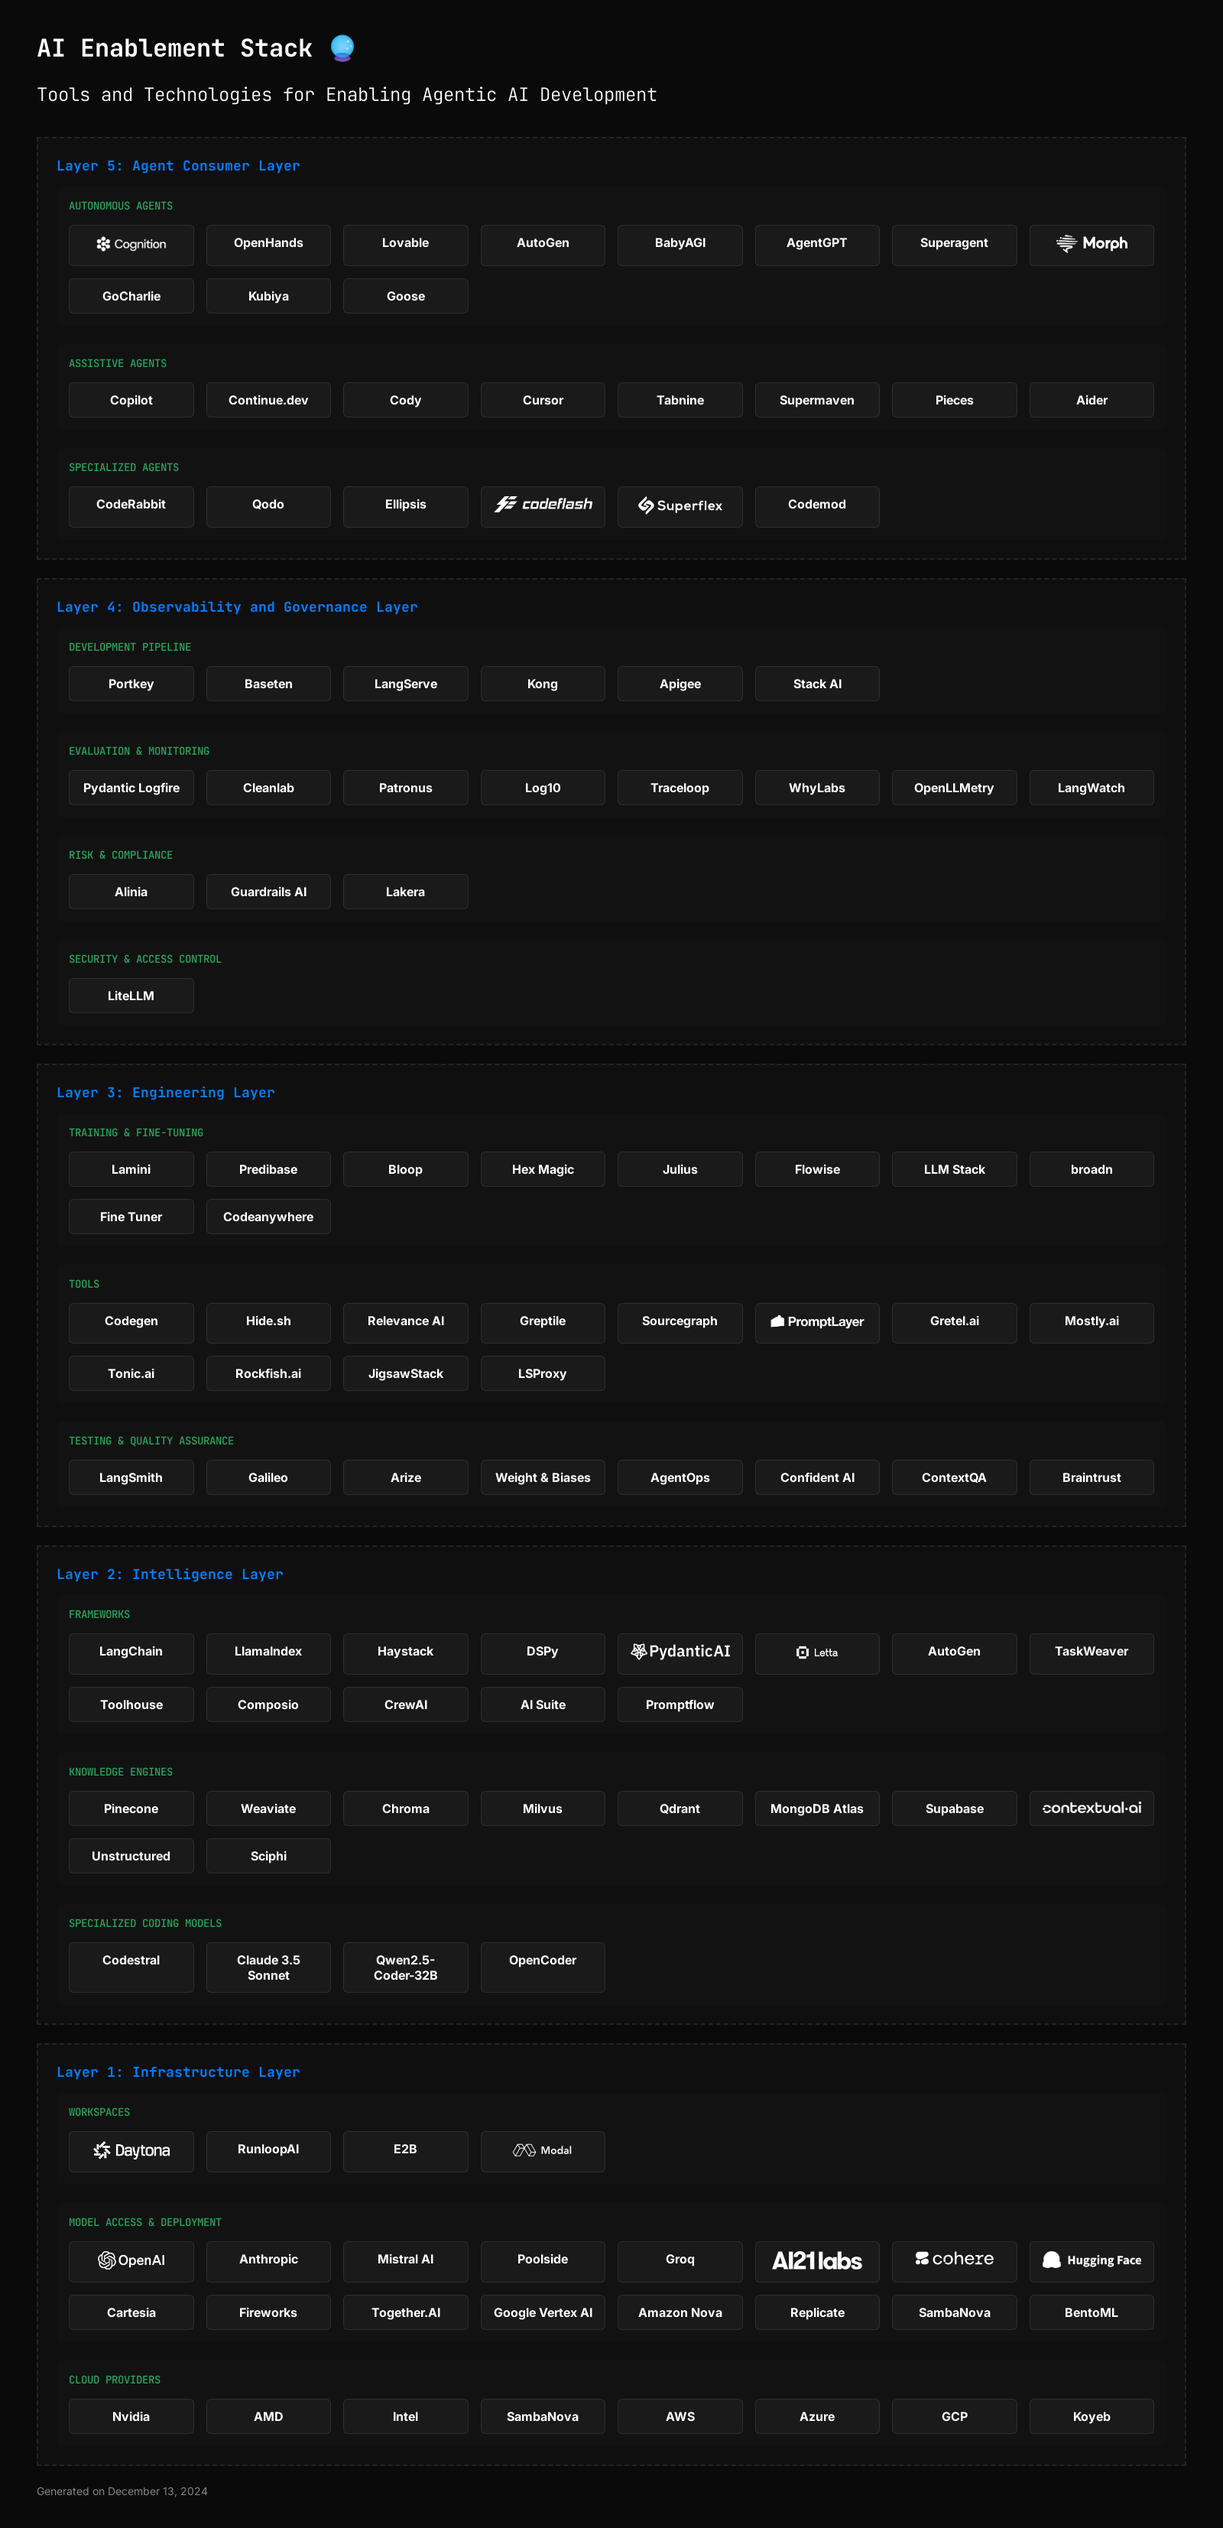
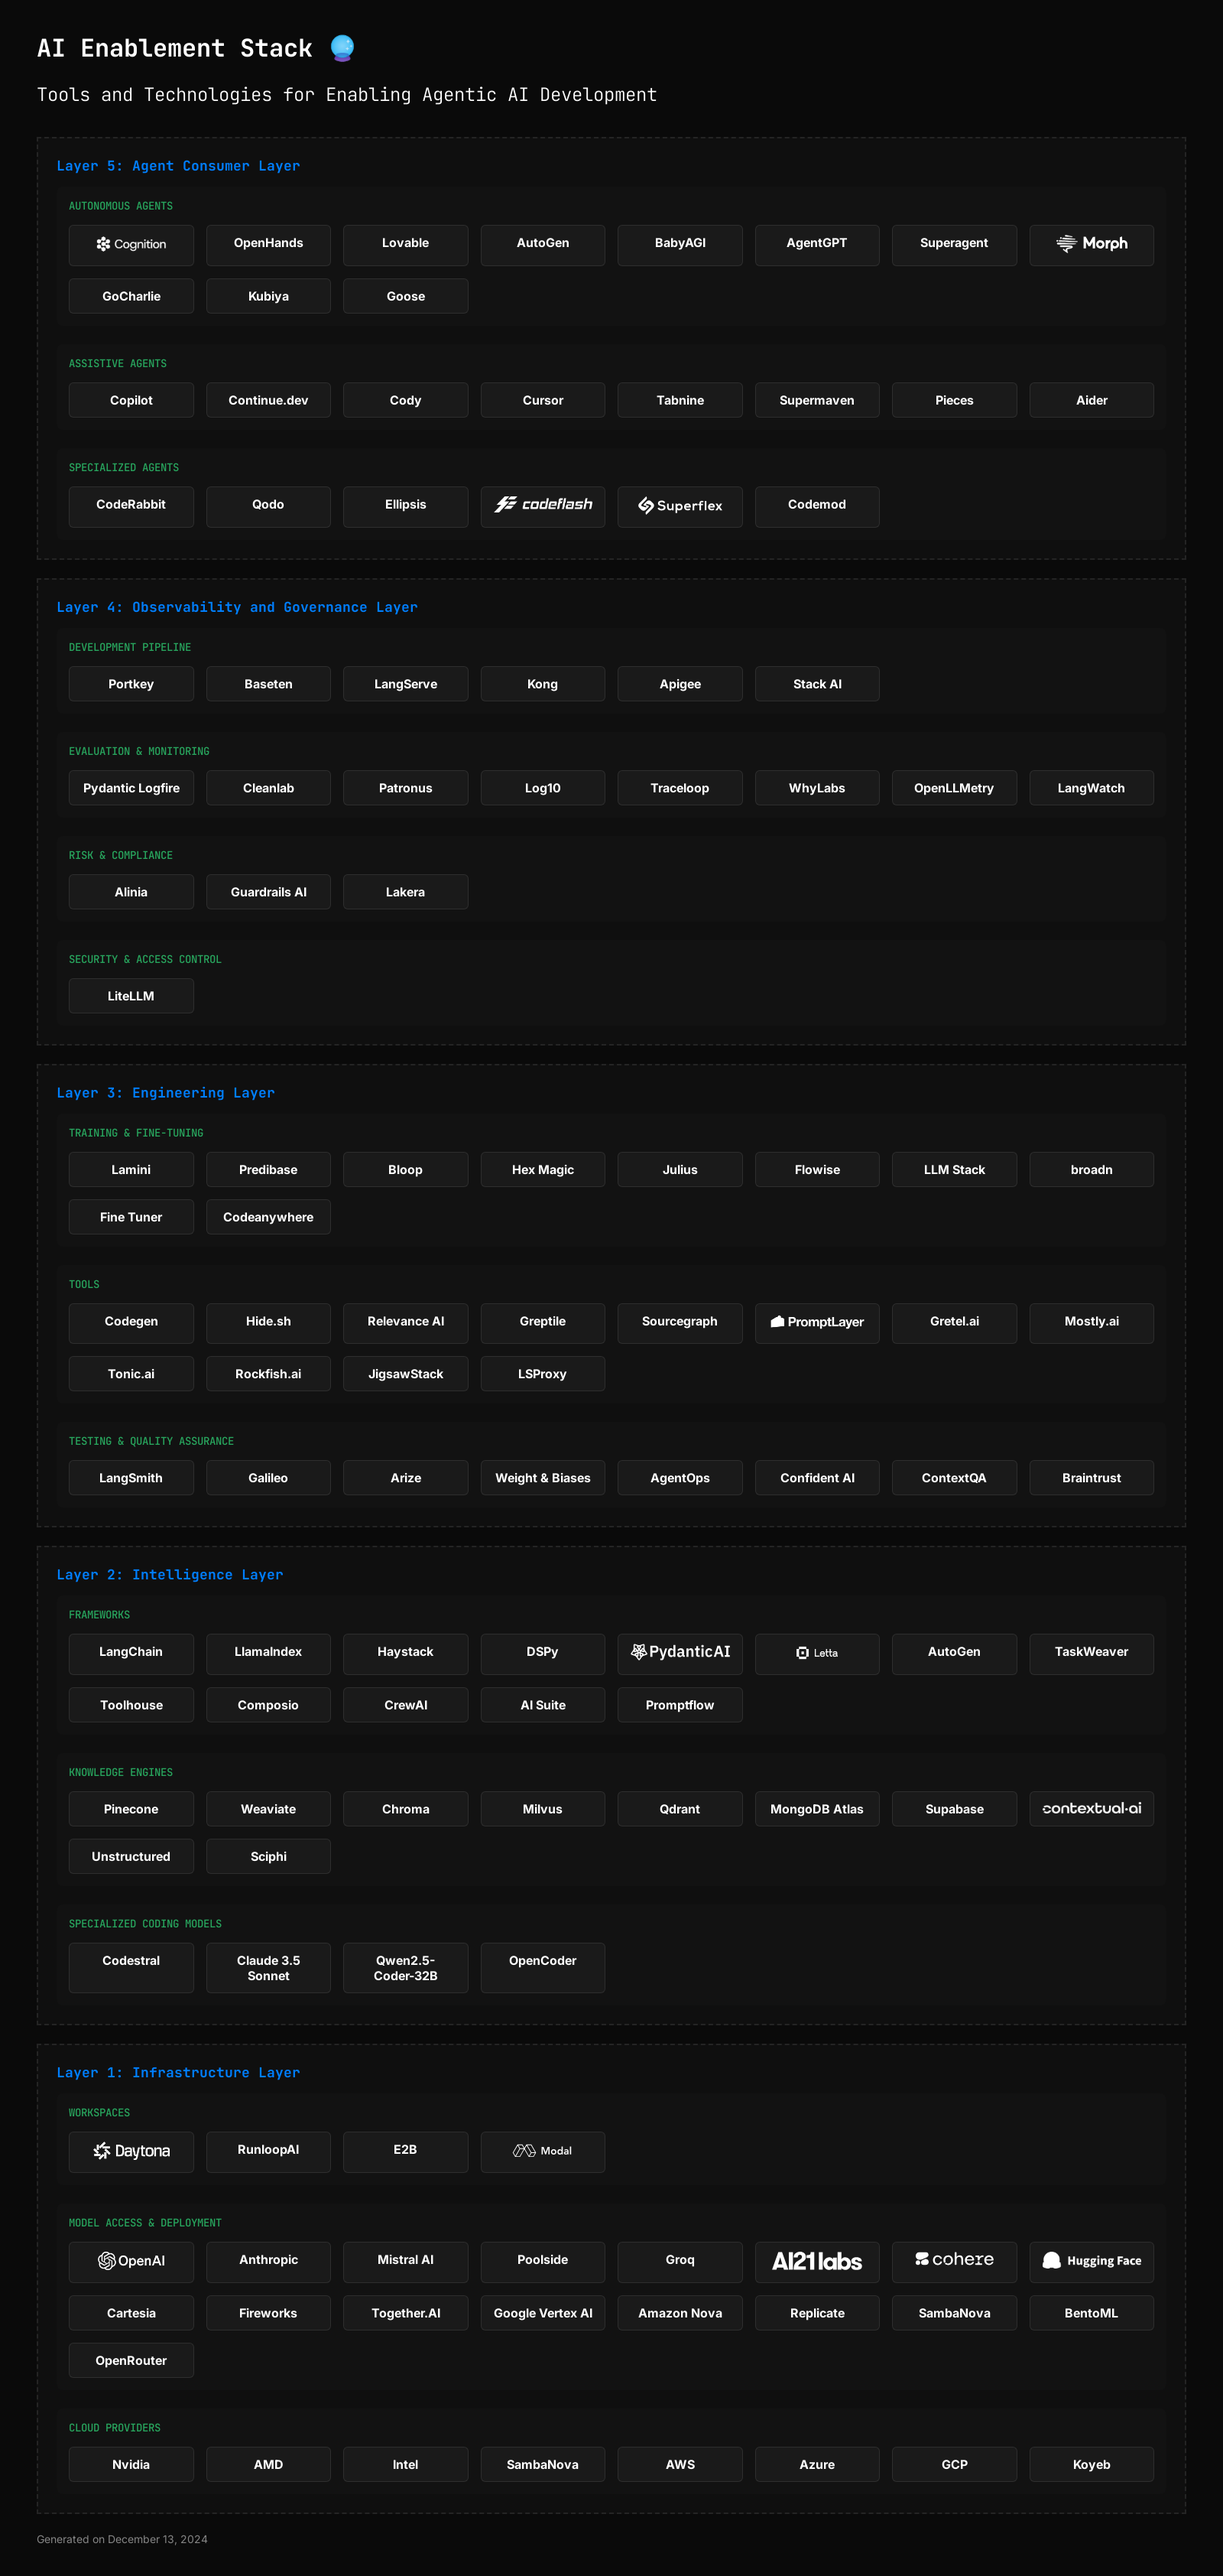
added OpenRouter

diff --git a/README.md b/README.md
@@ -1649,6 +1649,19 @@ BentoML provides an open-source unified inference platform that enables organiza
 - [https://www.bentoml.com/](https://www.bentoml.com/)
 </details>
 
+#### [OpenRouter](https://openrouter.ai/)
+<details>
+
+##### Category
+Infrastructure Layer - MODEL ACCESS & DEPLOYMENT
+
+##### Description
+OpenRouter provides a unified OpenAI-compatible API for accessing 282+ models across multiple providers, offering standardized access, provider routing, and model rankings, with support for multiple SDKs and framework integrations.
+
+##### Links
+- [https://openrouter.ai/](https://openrouter.ai/)
+</details>
+
 ### CLOUD PROVIDERS
 
 Computing infrastructure that powers AI systems and their workspaces
